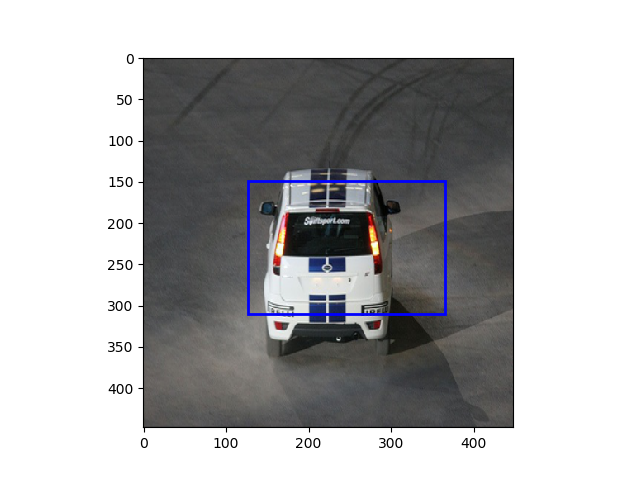
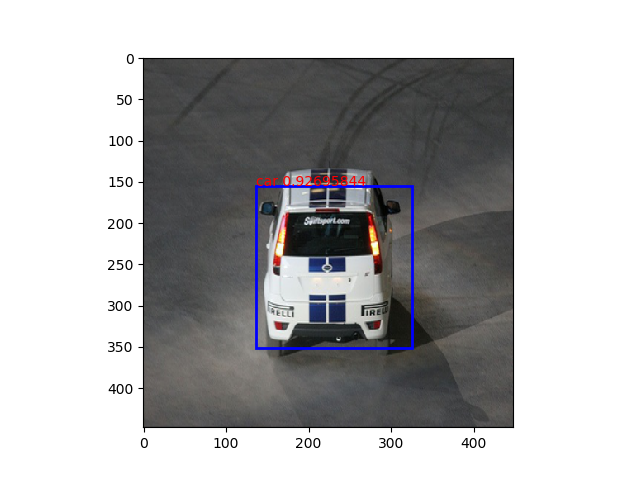
update

Changed region(s): [[0.375, 0.3438, 0.7188, 0.75]]

diff --git a/testYOLOv2.py b/testYOLOv2.py
@@ -6,8 +6,9 @@ import YOLOv2 as yolov2
 import matplotlib.pyplot as plt
 import matplotlib.patches as patches
 from skimage import io, transform
+from utils.classname_encoder import classname_to_ids
 
-
+os.environ['CUDA_VISIBLE_DEVICES'] = '0'
 os.environ['TF_CPP_MIN_LOG_LEVEL'] = '2'
 device_name = tf.test.gpu_device_name()
 if device_name is not '':
@@ -15,13 +16,13 @@ if device_name is not '':
 else:
     print('Found GPU Device Failed!')
 
-lr = 0.001
+lr = 0.0001
 batch_size = 24
-buffer_size = 5011
-epochs = 160
-reduce_lr_epoch = []
+buffer_size = 256
+epochs = 280
+reduce_lr_epoch = [120,250]
 config = {
-    'mode': 'test',     # 'train', 'test'
+    'mode': 'train',     # 'train', 'test'
     'is_pretraining': False,
     'data_shape': [448, 448, 3],
     'num_classes': 20,
@@ -34,7 +35,7 @@ config = {
     'obj_scale': 5.,
     'class_scale': 1.,
 
-    'nms_score_threshold': 0.5,
+    'nms_score_threshold': 0.2,
     'nms_max_boxes': 10,
     'nms_iou_threshold': 0.5,
 
@@ -49,20 +50,26 @@ image_preprocess_config = {
     'is_random_crop': False,
     'random_horizontal_flip': 0.5,
     'random_vertical_flip': 0.,
-    'pad_truth_to': 50
+    'pad_truth_to': 60
 }
 
-data = ['./data/test_00000-of-00005.tfrecord',
-        './data/test_00001-of-00005.tfrecord',
-        './data/test_00002-of-00005.tfrecord',
-        './data/test_00003-of-00005.tfrecord',
-        './data/test_00004-of-00005.tfrecord']
+data = ['./data/test_00000-of-00010.tfrecord',
+        './data/test_00001-of-00010.tfrecord',
+        './data/test_00002-of-00010.tfrecord',
+        './data/test_00003-of-00010.tfrecord',
+        './data/test_00004-of-00010.tfrecord',
+        './data/test_00005-of-00010.tfrecord',
+        './data/test_00006-of-00010.tfrecord',
+        './data/test_00007-of-00010.tfrecord',
+        './data/test_00008-of-00010.tfrecord',
+        './data/test_00009-of-00010.tfrecord']
+
 
 train_gen = voc_utils.get_generator(data,
                                     batch_size, buffer_size, image_preprocess_config)
 trainset_provider = {
     'data_shape': [448, 448, 3],
-    'num_train': 5011,
+    'num_train': 22136,
     'num_val': 0,
     'train_generator': train_gen,
     'val_generator': None
@@ -71,7 +78,7 @@ trainset_provider = {
 
 
 testnet = yolov2.YOLOv2(config, trainset_provider)
-# testnet.load_weight()
+testnet.load_weight()
 for i in range(epochs):
     print('-'*25, 'epoch', i, '-'*25)
     if i in reduce_lr_epoch:
@@ -79,11 +86,14 @@ for i in range(epochs):
         print('reduce lr, lr=', lr, 'now')
     mean_loss = testnet.train_one_epoch(lr)
     print('>> mean loss', mean_loss)
-    testnet.save_weight('latest', './weight/test')
-# img = io.imread()
+    testnet.save_weight('>> latest', './weight/test')
+# img = io.imread('/home/test/Desktop/YOLO-TF-master/VOC/JPEGImages/000012.jpg')
 # img = transform.resize(img, [448,448])
 # img = np.expand_dims(img, 0)
 # result = testnet.test_one_image(img)
+
+
+# id_to_clasname = {k:v  for (v,k) in classname_to_ids.items()}
 # scores = result[0]
 # bbox = result[1]
 # class_id = result[2]
@@ -92,6 +102,7 @@ for i in range(epochs):
 # plt.imshow(np.squeeze(img))
 # axis = plt.gca()
 # for i in range(len(scores)):
-#     rect = patches.Rectangle((bbox[i][0],bbox[i][1]), bbox[i][2]-bbox[i][0],bbox[i][3]-bbox[i][1],linewidth=2,edgecolor='b',facecolor='none')
+#     rect = patches.Rectangle((bbox[i][1],bbox[i][0]), bbox[i][3]-bbox[i][1],bbox[i][2]-bbox[i][0],linewidth=2,edgecolor='b',facecolor='none')
 #     axis.add_patch(rect)
+#     plt.text(bbox[i][1],bbox[i][0], id_to_clasname[class_id[0]]+str(' ')+str(scores[0]), color='red')
 # plt.show()
